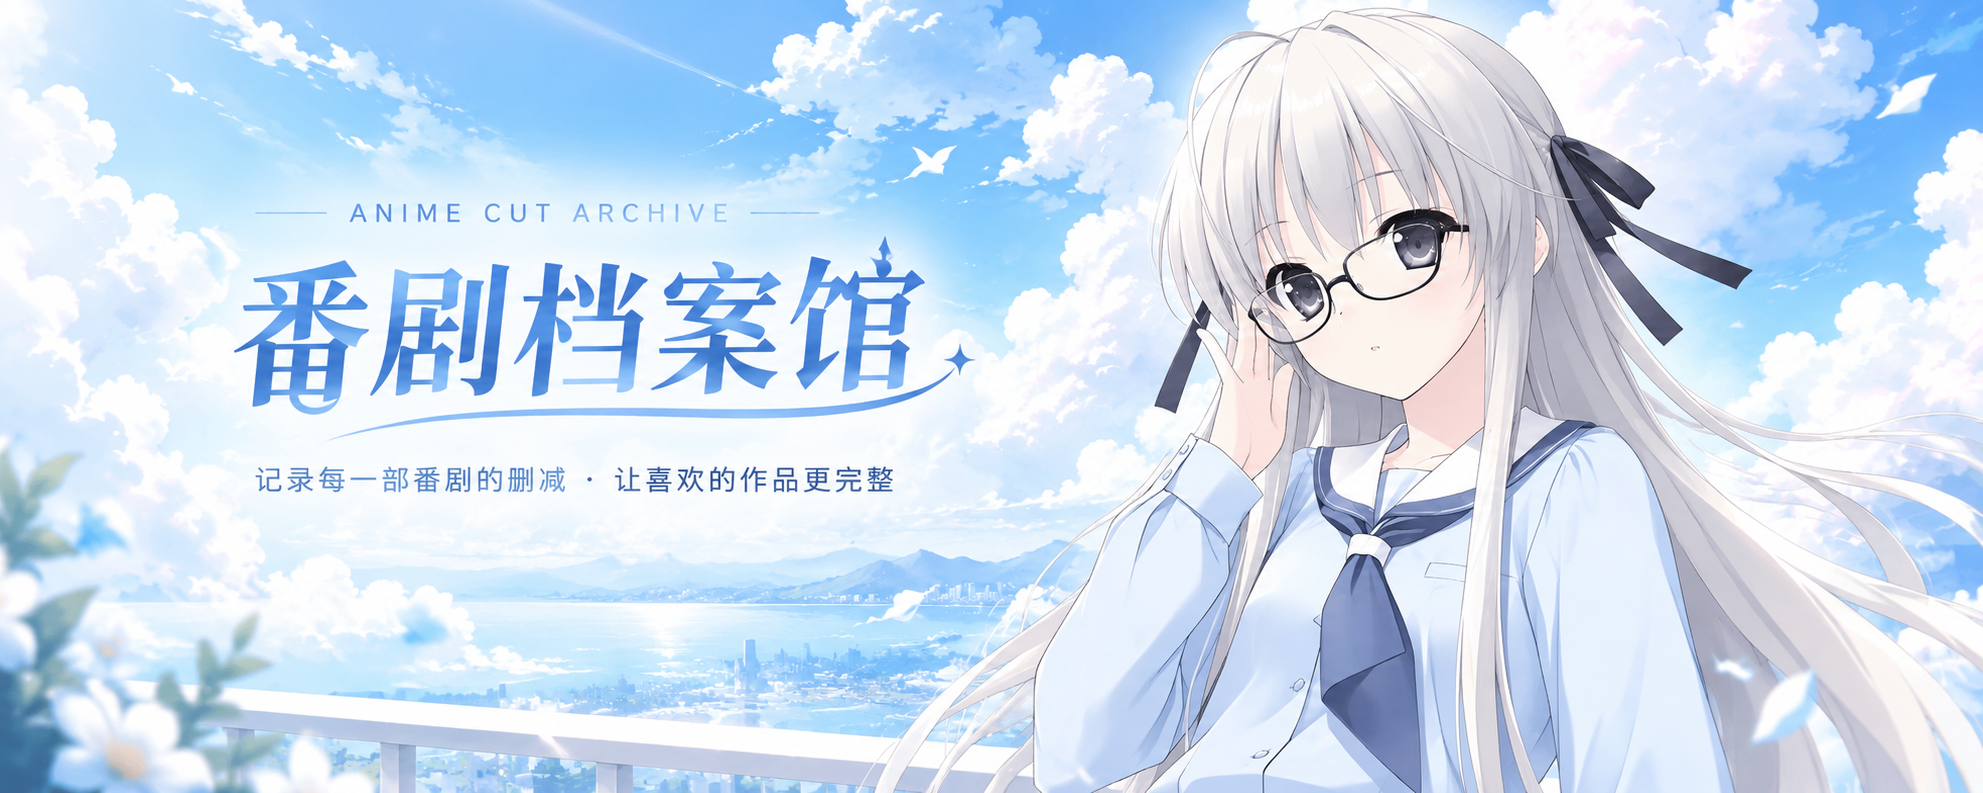
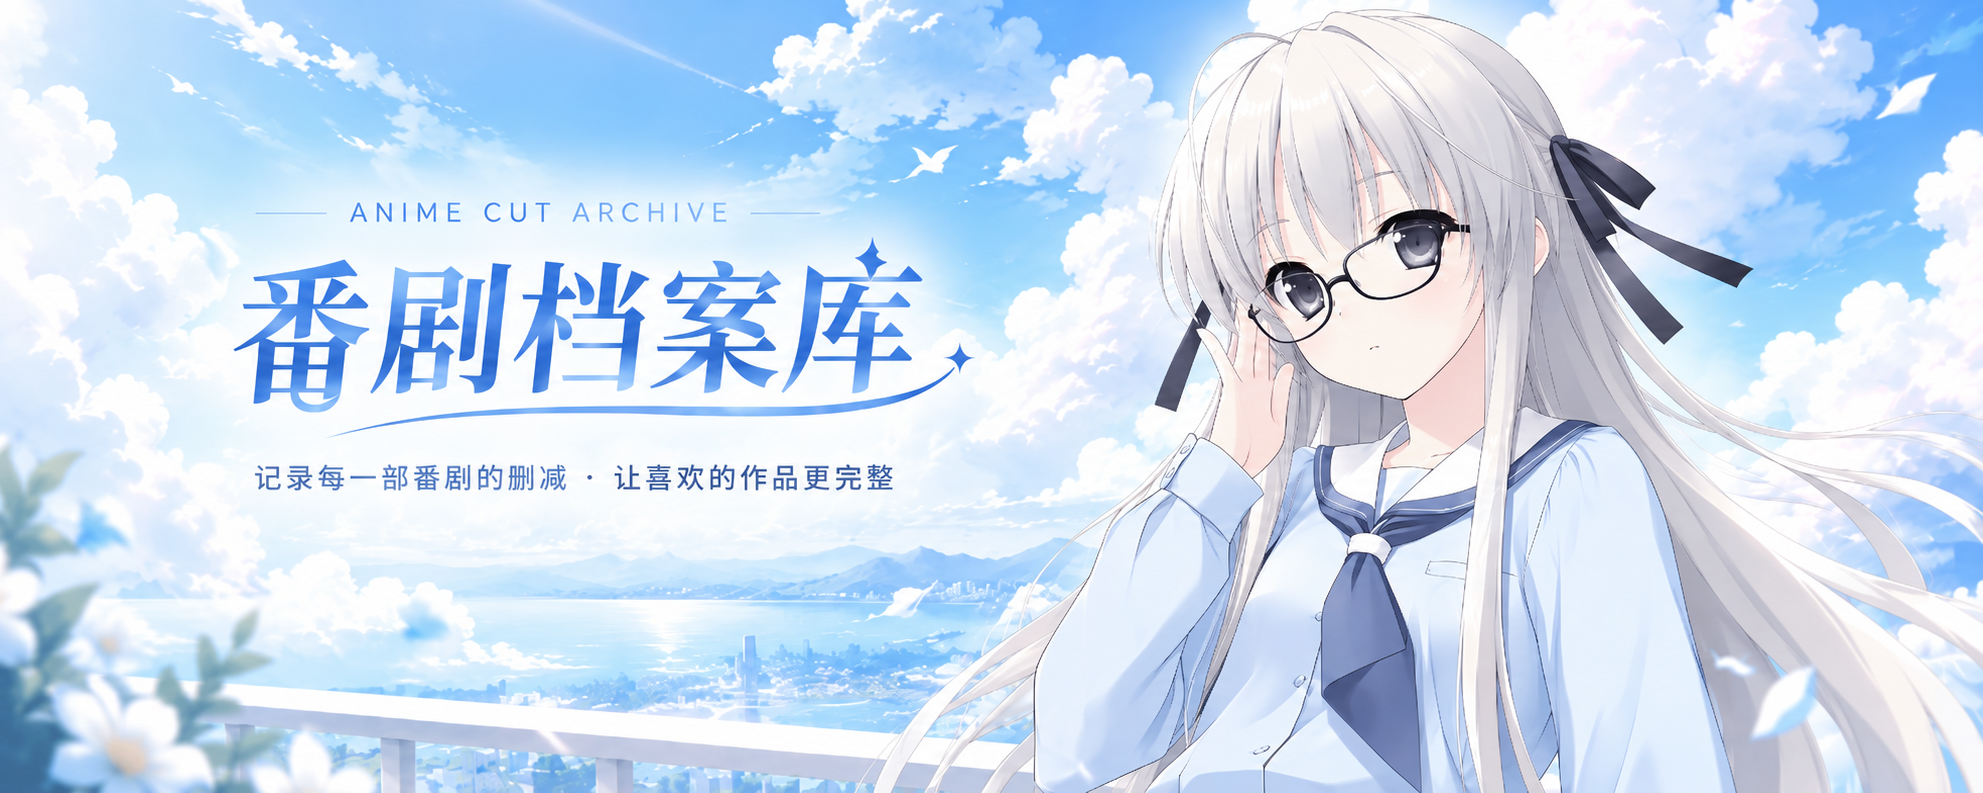
Add files via upload

diff --git a/index.html b/index.html
@@ -2,7 +2,7 @@
 <html lang="zh-CN">
 <head>
 <meta charset="utf-8"><meta name="viewport" content="width=device-width,initial-scale=1">
-<title>番剧档案馆</title>
+<title>番剧档案库</title>
 <link rel="icon" type="image/jpeg" href="avatar.jpeg">
 <link rel="apple-touch-icon" href="avatar.jpeg">
 <script src="https://cdn.jsdelivr.net/npm/@supabase/supabase-js@2"></script>
@@ -1123,6 +1123,14 @@ footer{text-align:center!important;width:100%;padding:18px 12px!important}
 .top .navlinks a.active .nav-icon{stroke-width:2}
 @media(max-width:420px){.top .navlinks .nav-icon{width:16px;height:16px;flex-basis:16px}}
 
+
+/* 修复二级弹窗滚动穿透：打开弹窗时锁定底层页面，只允许弹窗内容区域滚动 */
+html.modal-open, body.modal-open{overflow:hidden!important;height:100%!important;overscroll-behavior:none!important}
+body.modal-open{position:fixed!important;width:100%!important;left:0!important;right:0!important}
+#modal{position:fixed!important;inset:0!important;overscroll-behavior:contain!important;touch-action:pan-y!important}
+#modal .dialog{overflow:hidden!important;overscroll-behavior:contain!important}
+#modalBody{flex:1 1 auto!important;min-height:0!important;overflow-y:auto!important;overflow-x:hidden!important;overscroll-behavior:contain!important;-webkit-overflow-scrolling:touch!important;touch-action:pan-y!important}
+
 </style>
 
 <style id="compact-card-spacing-final">
@@ -1249,9 +1257,9 @@ footer{text-align:center!important;width:100%;padding:18px 12px!important}
 </style>
 </head>
 <body>
-<header class="top"><div class="wrap nav"><div class="brand"><img class="mark" src="avatar.jpeg" alt="番剧档案馆头像">番剧档案馆</div><nav class="navlinks"><a href="#" class="active" data-page="home"><svg class="nav-icon" viewBox="0 0 24 24" aria-hidden="true"><path d="m3.8 10.5 8.2-7 8.2 7v9.2a1.3 1.3 0 0 1-1.3 1.3H5.1a1.3 1.3 0 0 1-1.3-1.3z"/><path d="M9 21v-6.5h6V21"/></svg>首页</a><a href="#" data-page="directory"><svg class="nav-icon" viewBox="0 0 24 24" aria-hidden="true"><circle cx="10.8" cy="10.8" r="6.5"/><path d="m16 16 4.2 4.2"/><path d="M8.3 10.8h5"/></svg>番剧列表</a><a href="#" id="navMyPosts" data-page="my-posts" style="display:none"><svg class="nav-icon" viewBox="0 0 24 24" aria-hidden="true"><rect x="5" y="4" width="14" height="17" rx="2"/><path d="M9 4.5V3h6v1.5M8.5 10h7M8.5 14h7M8.5 18h4"/></svg>我的投稿</a><a href="#" id="navAdmin" data-page="admin" style="display:none"><svg class="nav-icon" viewBox="0 0 24 24" aria-hidden="true"><path d="m12 3 8 3v5.5c0 4.7-3.3 7.8-8 9.5-4.7-1.7-8-4.8-8-9.5V6z"/><path d="m8.5 12 2.3 2.3 4.8-5"/></svg>审核列表</a></nav><div class="user-chip"><button class="default-avatar" id="roleBadge" type="button" aria-label="账号菜单" aria-expanded="false" title="账号菜单"></button><div class="account-menu-wrap" id="accountMenuWrap"><div class="account-menu" id="accountMenu"><button type="button" id="changePasswordBtn">修改密码</button><button type="button" class="logout" id="logoutBtn">退出登录</button><button type="button" id="closeAccountMenuBtn">关闭</button></div></div><button class="btn plain" id="authBtn" type="button">登录 / 注册</button><button class="btn primary" id="submitBtn" type="button"><span aria-hidden="true">＋</span> 投稿</button></div></div></header>
-<section class="hero" id="home"><div class="wrap"><div class="eyebrow">ANIME CUT ARCHIVE</div><h1>番剧档案馆</h1><p>记录每一部番剧的删减 · 让喜欢的作品更完整</p><div id="status" class="notice">正在连接云端……</div></div><img class="hero-art" src="avatar.jpeg" alt="银发眼镜动漫女孩"></section>
-<main class="wrap"><section class="stats"><div class="stat"><b id="animeCount">—</b><span class="muted">收录番剧</span></div><div class="stat"><b id="cutCount">—</b><span class="muted">删减记录</span></div><div class="stat"><b id="userState">访客</b><span class="muted">当前状态</span></div></section><section class="panel page-section" id="homeWelcome" data-page-section="home"><h2>欢迎来到番剧档案馆</h2><p class="muted">记录每一部番剧的删减 · 让喜欢的作品更完整。</p><button class="btn primary" type="button" id="browseDirectoryBtn">浏览番剧列表</button></section><div class="layout page-hidden" id="contentLayout"><div><section class="panel page-section page-hidden" id="directory" data-page-section="directory"><h2>番剧列表</h2><div class="filters"><div class="search-wrap"><input class="field" id="search" placeholder="搜索番剧名称…" autocomplete="off"><button class="search-clear" id="clearSearch" type="button" aria-label="清空搜索框" title="清空搜索">×</button></div><select class="field" id="season"><option value="">全部季度</option><option>春季</option><option>夏季</option><option>秋季</option><option>冬季</option></select><select class="field" id="year"><option value="">全部年份</option></select></div></section><section id="cards" class="cards page-section page-hidden" data-page-section="directory"></section><section class="panel page-section page-hidden" id="my-posts" data-page-section="my-posts"><div id="myProps"></div></section></div><aside class="panel page-section page-hidden" id="submit" data-page-section="submit"><h2>提交投稿</h2><p class="muted" id="submitIntro">选择投稿类型：新增番剧，或给已收录番剧补充删减记录。</p>
+<header class="top"><div class="wrap nav"><div class="brand"><img class="mark" src="avatar.jpeg" alt="番剧档案库头像">番剧档案库</div><nav class="navlinks"><a href="#" class="active" data-page="home"><svg class="nav-icon" viewBox="0 0 24 24" aria-hidden="true"><path d="m3.8 10.5 8.2-7 8.2 7v9.2a1.3 1.3 0 0 1-1.3 1.3H5.1a1.3 1.3 0 0 1-1.3-1.3z"/><path d="M9 21v-6.5h6V21"/></svg>首页</a><a href="#" data-page="directory"><svg class="nav-icon" viewBox="0 0 24 24" aria-hidden="true"><circle cx="10.8" cy="10.8" r="6.5"/><path d="m16 16 4.2 4.2"/><path d="M8.3 10.8h5"/></svg>番剧列表</a><a href="#" id="navMyPosts" data-page="my-posts" style="display:none"><svg class="nav-icon" viewBox="0 0 24 24" aria-hidden="true"><rect x="5" y="4" width="14" height="17" rx="2"/><path d="M9 4.5V3h6v1.5M8.5 10h7M8.5 14h7M8.5 18h4"/></svg>我的投稿</a><a href="#" id="navAdmin" data-page="admin" style="display:none"><svg class="nav-icon" viewBox="0 0 24 24" aria-hidden="true"><path d="m12 3 8 3v5.5c0 4.7-3.3 7.8-8 9.5-4.7-1.7-8-4.8-8-9.5V6z"/><path d="m8.5 12 2.3 2.3 4.8-5"/></svg>审核列表</a></nav><div class="user-chip"><button class="default-avatar" id="roleBadge" type="button" aria-label="账号菜单" aria-expanded="false" title="账号菜单"></button><div class="account-menu-wrap" id="accountMenuWrap"><div class="account-menu" id="accountMenu"><button type="button" id="changePasswordBtn">修改密码</button><button type="button" class="logout" id="logoutBtn">退出登录</button><button type="button" id="closeAccountMenuBtn">关闭</button></div></div><button class="btn plain" id="authBtn" type="button">登录 / 注册</button><button class="btn primary" id="submitBtn" type="button"><span aria-hidden="true">＋</span> 投稿</button></div></div></header>
+<section class="hero" id="home"><div class="wrap"><div class="eyebrow">ANIME CUT ARCHIVE</div><h1>番剧档案库</h1><p>记录每一部番剧的删减 · 让喜欢的作品更完整</p><div id="status" class="notice">正在连接云端……</div></div><img class="hero-art" src="avatar.jpeg" alt="银发眼镜动漫女孩"></section>
+<main class="wrap"><section class="stats"><div class="stat"><b id="animeCount">—</b><span class="muted">收录番剧</span></div><div class="stat"><b id="cutCount">—</b><span class="muted">删减记录</span></div><div class="stat"><b id="userState">访客</b><span class="muted">当前状态</span></div></section><section class="panel page-section" id="homeWelcome" data-page-section="home"><h2>欢迎来到番剧档案库</h2><p class="muted">记录每一部番剧的删减 · 让喜欢的作品更完整。</p><button class="btn primary" type="button" id="browseDirectoryBtn">浏览番剧列表</button></section><div class="layout page-hidden" id="contentLayout"><div><section class="panel page-section page-hidden" id="directory" data-page-section="directory"><h2>番剧列表</h2><div class="filters"><div class="search-wrap"><input class="field" id="search" placeholder="搜索番剧名称…" autocomplete="off"><button class="search-clear" id="clearSearch" type="button" aria-label="清空搜索框" title="清空搜索">×</button></div><select class="field" id="season"><option value="">全部季度</option><option>春季</option><option>夏季</option><option>秋季</option><option>冬季</option></select><select class="field" id="year"><option value="">全部年份</option></select></div></section><section id="cards" class="cards page-section page-hidden" data-page-section="directory"></section><section class="panel page-section page-hidden" id="my-posts" data-page-section="my-posts"><div id="myProps"></div></section></div><aside class="panel page-section page-hidden" id="submit" data-page-section="submit"><h2>提交投稿</h2><p class="muted" id="submitIntro">选择投稿类型：新增番剧，或给已收录番剧补充删减记录。</p>
 <form id="inlineProposalForm" class="inline-form">
 <div class="anime-meta-grid">
   <div class="anime-meta-field"><label for="submissionType">投稿类型</label><select class="field" name="submission_type" id="submissionType"><option value="create_anime">新增番剧</option><option value="add_cut">给已收录番剧投稿</option></select></div>
@@ -1271,7 +1279,7 @@ footer{text-align:center!important;width:100%;padding:18px 12px!important}
 
 </div>
 <button class="btn primary" id="inlineSubmitButton" type="submit" style="width:100%;margin-top:12px">➤ 提交投稿</button>
-</form></aside></div></main><footer>© 2026 番剧档案馆　|　让每一部番剧都值得被记住</footer>
+</form></aside></div></main><footer>© 2026 番剧档案库　|　让每一部番剧都值得被记住</footer>
 <div class="modal" id="modal"><div class="dialog"><div style="display:flex;justify-content:space-between;gap:10px"><div><h2 id="modalTitle" style="margin:0">窗口</h2><p class="muted" id="modalDesc"></p></div><button class="btn plain" id="close">关闭</button></div><div id="modalBody"></div></div></div><div class="toast" id="toast"></div><button id="backToTop" class="back-to-top" type="button" aria-label="回到顶部" title="回到顶部">↑<span>回到顶部</span></button>
 <script>
 /* 填入你的 Supabase Project URL 与 Publishable key。不要填写 Secret/service_role key。 */
@@ -1284,8 +1292,8 @@ const db = configured && window.supabase?.createClient
 let currentUser=null, isAdmin=false, records=[], cuts=[];
 const $=id=>document.getElementById(id);
 function toast(s){$("toast").textContent=s;$("toast").classList.add("show");setTimeout(()=>$("toast").classList.remove("show"),3000)}
-function modal(title,desc,body){$("modalTitle").textContent=title;$("modalDesc").textContent=desc||"";$("modalBody").innerHTML=body;$("modal").classList.add("show")}
-function closeModal(){$("modal").classList.remove("show")}
+function modal(title,desc,body){$("modalTitle").textContent=title;$("modalDesc").textContent=desc||"";$("modalBody").innerHTML=body;$("modal").classList.add("show");document.body.classList.add("modal-open")}
+function closeModal(){$("modal").classList.remove("show");document.body.classList.remove("modal-open")}
 function esc(s){return String(s??"").replace(/[&<>"']/g,c=>({"&":"&amp;","<":"&lt;",">":"&gt;",'"':"&quot;","'":"&#39;"}[c]))}
 // 封面容错：按字段顺序尝试所有已有图片地址，避免 cover_url 失效时忽略其他可用字段。
 function coverCandidates(a){return [...new Set([a?.cover_url,a?.cover_image_url,a?.cover_image,a?.poster_url,a?.image_url,a?.cover,a?.coverUrl,a?.coverImageUrl,a?.coverImage,a?.posterUrl,a?.imageUrl].map(v=>String(v||"").trim()).filter(v=>/^https?:\/\//i.test(v)))]}
